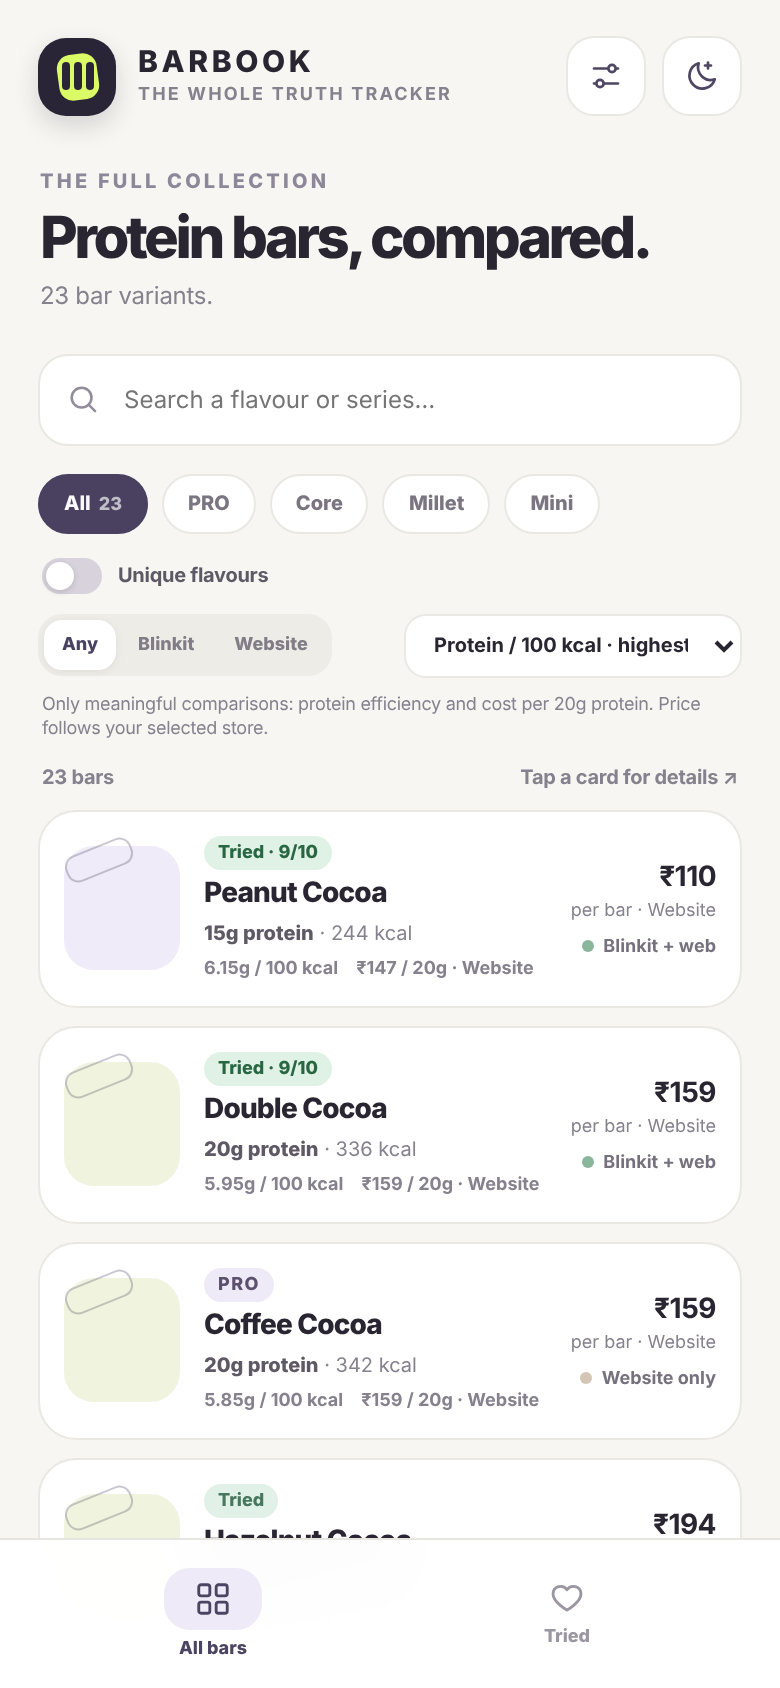
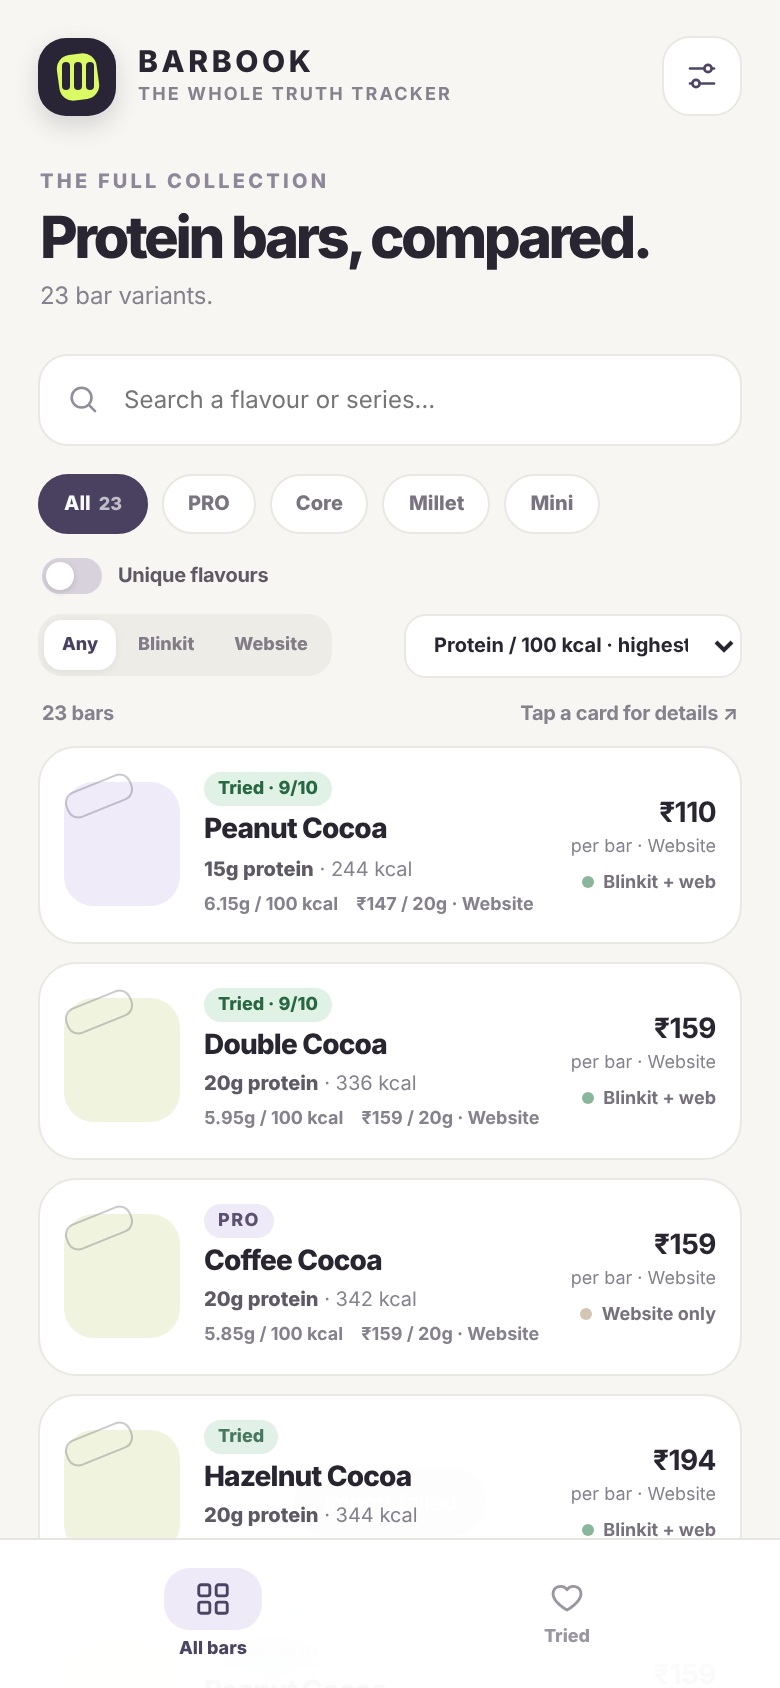
Remove helper text and header theme button; fix dark-mode line and flash
- Remove the "Only meaningful comparisons..." sentence under the sort controls
- Remove the header dark-mode button; dark mode now lives only in Settings
- Bottom bar border now follows the theme (it was a fixed light colour, which
  showed as a white line in dark mode)
- Apply the saved theme in <head> before first paint and mute transitions
  until the first frames, so dark mode never fades in from light
- Android: remember the theme natively and apply it to the window, WebView and
  system bars at start and on resume, instead of always starting light
- Validator and tests updated

Claude-Session: https://claude.ai/code/session_01KMsSV3cEYCq1QYNxrbBR9u

diff --git a/app/src/main/assets/index.html b/app/src/main/assets/index.html
@@ -4,6 +4,11 @@
   <meta charset="utf-8">
   <meta name="viewport" content="width=device-width, initial-scale=1, viewport-fit=cover">
   <meta name="theme-color" content="#f7f6f2">
+  <script>
+    /* Apply the saved theme before anything is painted so a dark-mode user never sees a light frame. */
+    (function(){ var d=document.documentElement; d.className='preload';
+      try { if (localStorage.getItem('barbook-theme-v1')==='dark') d.dataset.theme='dark'; } catch(e) {} })();
+  </script>
   <meta name="description" content="A simple personal tracker for The Whole Truth protein bars.">
   <title>Barbook — The Whole Truth tracker</title>
   <style>
@@ -23,8 +28,10 @@
       --lavender: #eeeaf7;
       --lime: #dafa66;
       --nav-surface: rgba(255,255,255,.94);
+      --nav-line: rgba(225,222,216,.8);
       --shadow: 0 12px 34px rgba(43, 37, 54, .07);
     }
+    html.preload *, html.preload *::before, html.preload *::after { transition:none !important; animation:none !important; }
     * { box-sizing: border-box; -webkit-tap-highlight-color: transparent; }
     html { min-height: 100%; background: var(--paper); }
     body {
@@ -93,7 +100,6 @@
     .availability-tabs button { border:0; background:transparent; color:#817c86; border-radius:9px; padding:7px 9px; font-size:9px; font-weight:800; white-space:nowrap; }
     .availability-tabs button.active { background:var(--surface); color:var(--plum); box-shadow:0 1px 4px rgba(0,0,0,.06); }
     .sort-select { border:1px solid var(--line); background:var(--surface); border-radius:11px; padding:8px 10px; color:var(--ink); font-size:10px; font-weight:750; outline:none; width:min(48%,180px); min-width:132px; }
-    .sort-helper { color:var(--muted); font-size:9px; line-height:1.4; margin:-4px 2px 11px; }
     .results-label { display:flex; justify-content:space-between; color:var(--muted); font-size:10px; font-weight:750; margin: 0 2px 10px; }
     .bar-list { display:grid; gap:9px; }
     .bar-card { width:100%; text-align:left; color:var(--ink); background:var(--surface); border:1px solid var(--line); border-radius:19px; display:flex; align-items:center; gap:12px; padding:12px; min-width:0; transition:transform .38s cubic-bezier(.2,.7,.2,1), box-shadow .38s ease, background-color .38s ease, border-color .38s ease; }
@@ -124,7 +130,7 @@
     .taste-score span { font-size:8px; color:var(--muted); font-weight:800; margin-top:4px; }
     .taste-tip { display:flex; gap:10px; align-items:center; padding:12px 14px; border-radius:16px; background:var(--surface); border:1px solid var(--line); margin:13px 0 17px; color:#716b79; font-size:10px; line-height:1.4; }
     .taste-tip .tip-dot { width:25px; height:25px; border-radius:9px; flex:0 0 auto; display:grid; place-items:center; background:#f4f0d9; color:#8a7939; font-weight:900; }
-    .bottom-nav { position:fixed; z-index:10; bottom:0; left:50%; transform:translateX(-50%); width:min(100%,620px); padding:10px 18px calc(10px + env(safe-area-inset-bottom)); background:var(--nav-surface); backdrop-filter:blur(18px); border-top:1px solid rgba(225,222,216,.8); display:grid; grid-template-columns:repeat(2,1fr); }
+    .bottom-nav { position:fixed; z-index:10; bottom:0; left:50%; transform:translateX(-50%); width:min(100%,620px); padding:10px 18px calc(10px + env(safe-area-inset-bottom)); background:var(--nav-surface); backdrop-filter:blur(18px); border-top:1px solid var(--nav-line); display:grid; grid-template-columns:repeat(2,1fr); }
     .nav-item { border:0; background:transparent; color:#9b96a1; display:flex; flex-direction:column; align-items:center; justify-content:center; gap:4px; padding:4px 0; font-size:9px; font-weight:800; transition:color .38s ease, transform .38s cubic-bezier(.2,.7,.2,1); }
     .nav-item:active { transform:translateY(1px); }
     .nav-item svg { width:19px; height:19px; stroke-width:1.8; }
@@ -208,6 +214,7 @@
       --plum-dark:#242130;
       --lavender:#302b40;
       --nav-surface:rgba(29,27,37,.95);
+      --nav-line:rgba(70,65,86,.7);
       --shadow:0 14px 38px rgba(0,0,0,.24);
     }
     :root[data-theme="dark"] body { background:var(--paper); color:var(--ink); }
@@ -348,8 +355,6 @@ const svg = (name) => {
   search:`<circle cx="11" cy="11" r="7" ${common}/><path d="m16.5 16.5 4 4" ${common}/>`,
   grid:`<rect x="3" y="3" width="7" height="7" rx="1.5" ${common}/><rect x="14" y="3" width="7" height="7" rx="1.5" ${common}/><rect x="3" y="14" width="7" height="7" rx="1.5" ${common}/><rect x="14" y="14" width="7" height="7" rx="1.5" ${common}/>`,
   heart:`<path d="M20.8 8.8c0 5.2-8.8 10.2-8.8 10.2S3.2 14 3.2 8.8A4.8 4.8 0 0 1 12 6.2a4.8 4.8 0 0 1 8.8 2.6Z" ${common}/>`,
-  moon:`<path d="M20.5 14.2A8.5 8.5 0 0 1 9.8 3.5 8.6 8.6 0 1 0 20.5 14.2Z" ${common}/><path d="M16 3v4M14 5h4" ${common}/>`,
-  sun:`<circle cx="12" cy="12" r="4" ${common}/><path d="M12 2v2M12 20v2M4.93 4.93l1.42 1.42m11.3 11.3 1.42 1.42M2 12h2m16 0h2M4.93 19.07l1.42-1.42m11.3-11.3 1.42-1.42" ${common}/>`,
   sliders:`<path d="M4 7h9M19 7h1M4 17h1M11 17h9" ${common}/><circle cx="16" cy="7" r="2.4" ${common}/><circle cx="8" cy="17" r="2.4" ${common}/>`
  };
  return `<svg viewBox="0 0 24 24" aria-hidden="true">${paths[name] || paths.grid}</svg>`;
@@ -411,7 +416,7 @@ function browsePage() {
   ? `<div class="taste-hero"><div><div class="eyebrow">YOUR AVERAGE RATING</div><h2>${avgRating()} <span style="font-size:13px;color:#8b819c">/ 10</span></h2><p>${ratedBars().length} rated · ${triedBars().length} tried</p></div><div class="taste-score"><b>${triedBars().length}</b><span>TRIED</span></div></div><div class="taste-tip"><div class="tip-dot">✳</div><div>Tap a bar to change its tried status or rating. Saved on this phone.</div></div>`
   : `<div class="search-wrap">${svg('search')}<input id="searchInput" type="search" placeholder="Search a flavour or series…" value="${escapeHtml(searchText)}" autocomplete="off"></div>
    <div class="filter-row">${['All','PRO','Core','Millet','Mini'].map(s=>`<button class="filter-chip ${seriesFilter===s?'active':''}" data-series="${s}">${s}${s==='All'?'<span class="count">23</span>':''}</button>`).join('')}</div><div class="unique-row"><label class="unique-toggle"><input type="checkbox" id="uniqueFlavours" ${uniqueFlavoursOnly?'checked':''}><span class="switch"></span><span>Unique flavours</span></label></div>
-   <div class="filter-toolbar"><div class="availability-tabs">${['Any','Blinkit','Website'].map(s=>`<button class="${availabilityFilter===s?'active':''}" data-availability="${s}">${s}</button>`).join('')}</div><select class="sort-select" id="sortSelect" aria-label="Sort bars"><option value="efficiency" ${sortMode==='efficiency'?'selected':''}>Protein / 100 kcal · highest first</option><option value="price20" ${sortMode==='price20'?'selected':''}>₹ / 20g protein · lowest first</option></select></div><div class="sort-helper">Only meaningful comparisons: protein efficiency and cost per 20g protein. Price follows your selected store.</div>`;
+   <div class="filter-toolbar"><div class="availability-tabs">${['Any','Blinkit','Website'].map(s=>`<button class="${availabilityFilter===s?'active':''}" data-availability="${s}">${s}</button>`).join('')}</div><select class="sort-select" id="sortSelect" aria-label="Sort bars"><option value="efficiency" ${sortMode==='efficiency'?'selected':''}>Protein / 100 kcal · highest first</option><option value="price20" ${sortMode==='price20'?'selected':''}>₹ / 20g protein · lowest first</option></select></div>`;
  return `<div class="page-title"><div class="eyebrow">${isTasted?'YOUR TRIED BARS':'THE FULL COLLECTION'}</div><h1>${isTasted?'Your tried bars.':'Protein bars, compared.'}</h1><p id="pageSummary">${summaryText(items.length)}</p></div>
   ${header}
   <div class="results-label"><span id="resultCount">${resultLabel(items.length)}</span><span>Tap a card for details ↗</span></div>
@@ -421,7 +426,7 @@ function browsePage() {
 /* Rendering: the page shell is built once. After that only the parts that changed are touched,
    so nothing replays an entrance animation and the screen never flashes. */
 function renderShell() {
- $('#app').innerHTML = `<header class="topbar"><div class="brand"><div class="brand-mark"></div><div><div class="brand-name">BARBOOK</div><div class="brand-sub">THE WHOLE TRUTH TRACKER</div></div></div><div class="top-actions"><button class="icon-button" data-action="settings" aria-label="Settings" title="Settings">${svg('sliders')}</button><button class="icon-button" data-action="theme" aria-label="Switch to dark mode">${svg(currentTheme==='dark'?'sun':'moon')}</button></div></header><main id="mainView"></main>`;
+ $('#app').innerHTML = `<header class="topbar"><div class="brand"><div class="brand-mark"></div><div><div class="brand-name">BARBOOK</div><div class="brand-sub">THE WHOLE TRUTH TRACKER</div></div></div><div class="top-actions"><button class="icon-button" data-action="settings" aria-label="Settings" title="Settings">${svg('sliders')}</button></div></header><main id="mainView"></main>`;
 }
 function renderMain() { const main=$('#mainView'); if(main) main.innerHTML=browsePage(); }
 function renderNav() {
@@ -458,12 +463,6 @@ function applyTheme() {
  try { if (window.BarbookNative && window.BarbookNative.setTheme) window.BarbookNative.setTheme(currentTheme === 'dark'); } catch(e) {}
  const meta = $('meta[name="theme-color"]');
  if (meta) meta.content = currentTheme === 'dark' ? '#15141b' : '#f7f6f2';
- const toggle = $('[data-action="theme"]');
- if (toggle) {
-  toggle.innerHTML = svg(currentTheme === 'dark' ? 'sun' : 'moon');
-  toggle.setAttribute('aria-label', currentTheme === 'dark' ? 'Switch to light mode' : 'Switch to dark mode');
-  toggle.title = currentTheme === 'dark' ? 'Light mode' : 'Dark mode';
- }
  document.querySelectorAll('[data-theme-set]').forEach(el=>el.classList.toggle('active',el.dataset.themeSet===currentTheme));
 }
 function setTheme(mode) {
@@ -471,7 +470,6 @@ function setTheme(mode) {
  storage.set(THEME_KEY, currentTheme);
  applyTheme();
 }
-function toggleTheme() { setTheme(currentTheme === 'dark' ? 'light' : 'dark'); }
 
 /* Bottom sheets (bar details and settings) share one shell. The entrance animation is only
    applied when a sheet first opens; later updates patch the content inside the open sheet. */
@@ -645,7 +643,7 @@ function onBackupError(message) { setBackupNote(message || 'Something went wrong
 /* Events */
 document.addEventListener('click',e=>{
  const t=e.target;
- const action=t.closest('[data-action]'); if(action){ if(action.dataset.action==='theme') toggleTheme(); else if(action.dataset.action==='settings') openSettings(); return; }
+ const action=t.closest('[data-action]'); if(action){ if(action.dataset.action==='settings') openSettings(); return; }
  const confirmBtn=t.closest('[data-confirm]'); if(confirmBtn){ dismissConfirm(confirmBtn.dataset.confirm==='ok'); return; }
  const nav=t.closest('[data-tab]'); if(nav){ switchTab(nav.dataset.tab); return; }
  const series=t.closest('[data-series]'); if(series){seriesFilter=series.dataset.series;refreshFilterStates();updateListOnly();return;}
@@ -676,6 +674,7 @@ document.addEventListener('change',e=>{
 });
 document.addEventListener('keydown',e=>{if(e.key==='Escape'){ if($('.confirm-backdrop')){dismissConfirm(false);return;} if(activeBarId!=null||settingsOpen) requestCloseSheet(); }});
 render();
+requestAnimationFrame(()=>requestAnimationFrame(()=>document.documentElement.classList.remove('preload')));
 </script>
 </body>
 </html>

diff --git a/scripts/validate_barbook.py b/scripts/validate_barbook.py
@@ -56,6 +56,8 @@ require('aria-label="Search bars"' not in html, "Inert top-right search shortcut
 require('id="searchInput"' in html, "Functional catalogue search field must remain")
 require("Hide duplicate pack sizes" not in html and "unique-hint" not in html, "Redundant unique-flavour helper text must stay removed")
 require("Prices and nutrition from your tracker sheet" not in html and "footer-note" not in html, "Redundant tracker footer note must stay removed")
+require("sort-helper" not in html and "Only meaningful comparisons" not in html, "The sort helper sentence must stay removed")
+require('data-action="theme"' not in html, "Dark mode lives only in Settings; do not put a theme button back in the header")
 require("serviceWorker" not in html, "The service-worker registration is dead code in the Android WebView; do not reintroduce it")
 
 # --- Local-only personal data and agreed rating controls.
@@ -70,6 +72,12 @@ require("<textarea" not in html.lower() and "tasting notes" not in html.lower(),
 require('flavor:"Hazelnut Cocoa",series:"PRO"' in html and "tried:true,rating:6" in html, "Hazelnut Cocoa should be seeded as tried with a 6/10 rating")
 require("group.tasting.rating" in html and "group.representative" in html, "Unique-flavour view must carry tasting status from matching pack variants")
 require(len(re.findall(r"\{id:\d+,flavor:", html)) == 23, "The catalogue should contain exactly 23 bars unless a data change was requested")
+
+# --- Dark mode: no light flash, no light line.
+require("var(--nav-line)" in html and "rgba(225,222,216,.8)" not in re.search(r"\.bottom-nav\s*\{[^}]*\}", html).group(0),
+        "The bottom bar border must use the themed --nav-line variable (a fixed light colour shows as a white line in dark mode)")
+require("html.preload" in html and "localStorage.getItem('barbook-theme-v1')" in html.split("</head>")[0], "The saved theme must be applied in <head> before first paint")
+require("getSharedPreferences" in java and "onResume" in java and "setBackgroundDrawable" in java, "MainActivity must remember the theme and apply it at start and resume (prevents a white flash in dark mode)")
 
 # --- Settings, export and import.
 require("data-export" in html and "data-import" in html, "Settings must offer Export and Import")
@@ -107,10 +115,10 @@ for workflow in sorted(WORKFLOWS.glob("*.yml")):
 
 # --- JavaScript syntax check.
 script_blocks = re.findall(r"<script>(.*?)</script>", html, re.S)
-require(len(script_blocks) == 1, f"Expected one inline JavaScript block; found {len(script_blocks)}")
-if len(script_blocks) == 1:
+require(len(script_blocks) == 2, f"Expected the small theme script in <head> plus one app script; found {len(script_blocks)} inline blocks")
+if script_blocks:
     with tempfile.NamedTemporaryFile(mode="w", suffix=".js", encoding="utf-8") as js_file:
-        js_file.write(script_blocks[0])
+        js_file.write("\n;\n".join(script_blocks))
         js_file.flush()
         try:
             result = subprocess.run(["node", "--check", js_file.name], capture_output=True, text=True, check=False)
@@ -127,6 +135,7 @@ print(f"Barbook v{version_name.group(1)} checks passed:")
 print("- direct-to-All-bars navigation; no Home, inert search shortcut or dead service worker")
 print("- two approved sorts; compact unique-flavours switch; catalogue intact")
 print("- rating colours, Hazelnut Cocoa 6/10 seed, local-only data, Save/Discard, dark mode")
-print("- Settings with export/import wired to the Android file bridge")
+print("- Settings with export/import wired to the Android file bridge; dark mode only in Settings")
+print("- dark mode: themed bottom-bar border, saved theme applied before first paint and at app start/resume")
 print("- no entrance animations or full re-renders on ordinary taps")
 print("- fixed signing key, signed release build, versions in sync; JavaScript syntax valid")

diff --git a/app/src/main/java/com/barbook/wholetruth/MainActivity.java b/app/src/main/java/com/barbook/wholetruth/MainActivity.java
@@ -3,6 +3,8 @@ package com.barbook.wholetruth;
 import android.app.Activity;
 import android.content.ActivityNotFoundException;
 import android.content.Intent;
+import android.content.SharedPreferences;
+import android.graphics.drawable.ColorDrawable;
 import android.graphics.Color;
 import android.net.Uri;
 import android.os.Bundle;
@@ -25,6 +27,8 @@ public class MainActivity extends Activity {
     private static final int REQUEST_EXPORT = 4101;
     private static final int REQUEST_IMPORT = 4102;
     private static final int MAX_BACKUP_BYTES = 1000000;
+    private static final String PREFS = "barbook";
+    private static final String PREF_DARK = "dark";
 
     private WebView webView;
     private String pendingExport;
@@ -32,10 +36,12 @@ public class MainActivity extends Activity {
     @Override
     protected void onCreate(Bundle savedInstanceState) {
         super.onCreate(savedInstanceState);
-        updateSystemBars(false);
+        // Start in the theme the user last chose, so a dark-mode user never sees a light flash
+        // while the page is still loading. The page confirms the theme once it is running.
+        boolean dark = getSharedPreferences(PREFS, MODE_PRIVATE).getBoolean(PREF_DARK, false);
 
         webView = new WebView(this);
-        webView.setBackgroundColor(Color.rgb(247, 246, 242));
+        updateSystemBars(dark);
         webView.setOverScrollMode(View.OVER_SCROLL_NEVER);
         webView.setVerticalScrollBarEnabled(false);
 
@@ -53,8 +59,16 @@ public class MainActivity extends Activity {
         webView.loadUrl("file:///android_asset/index.html");
     }
 
+    @Override
+    protected void onResume() {
+        super.onResume();
+        // Coming back from recents: repaint the window and WebView in the saved theme straight away.
+        updateSystemBars(getSharedPreferences(PREFS, MODE_PRIVATE).getBoolean(PREF_DARK, false));
+    }
+
     private void updateSystemBars(boolean dark) {
         int barColor = dark ? Color.rgb(21, 20, 27) : Color.rgb(247, 246, 242);
+        getWindow().setBackgroundDrawable(new ColorDrawable(barColor));
         getWindow().setStatusBarColor(barColor);
         getWindow().setNavigationBarColor(barColor);
         int flags = dark ? 0 : (View.SYSTEM_UI_FLAG_LIGHT_STATUS_BAR | View.SYSTEM_UI_FLAG_LIGHT_NAVIGATION_BAR);
@@ -71,6 +85,7 @@ public class MainActivity extends Activity {
     private final class NativeBridge {
         @JavascriptInterface
         public void setTheme(boolean dark) {
+            getSharedPreferences(PREFS, MODE_PRIVATE).edit().putBoolean(PREF_DARK, dark).apply();
             runOnUiThread(() -> updateSystemBars(dark));
         }
 
